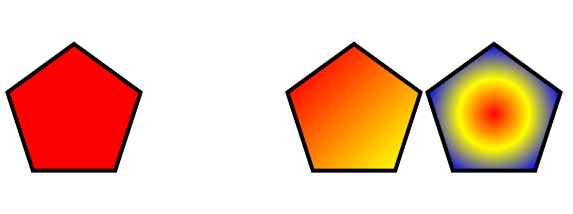
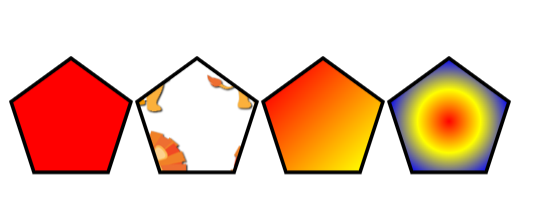
2

Changed region(s): [[0.0, 0.1748, 0.9927, 0.8738], [0.031, 0.6408, 0.2172, 0.8738], [0.3102, 0.3204, 0.3412, 0.3786]]

diff --git a/src/index.js b/src/index.js
@@ -1,8 +1,12 @@
 import React from "react";
 import ReactDOM from "react-dom/client";
 import { Stage, Layer, RegularPolygon } from "react-konva";
+import useImage from 'use-image';
 
+const url = 'https://konvajs.org/assets/lion.png';
 const App = () => {
+  const [image] = useImage(url);
+
   return (
     <Stage width={window.innerWidth} height={window.innerHeight}>
       <Layer>
@@ -16,18 +20,18 @@ const App = () => {
           strokeWidth={4}
           draggable
         />
-        {/*TODO how to use image for fillPatternImage*/}
-        {/*<RegularPolygon*/}
-        {/*  x={220}*/}
-        {/*  y={200}*/}
-        {/*  sides={5}*/}
-        {/*  radius={70}*/}
-        {/*  fillPatternImage={images.darthVader}*/}
-        {/*  fillPatternOffset={((x = -220), (y = 70))}*/}
-        {/*  stroke={"black"}*/}
-        {/*  strokeWidth={4}*/}
-        {/*  draggable*/}
-        {/*/>*/}
+        {/*TODO how to use image for  fillPatternOffset*/}
+        <RegularPolygon
+          x={220}
+          y={200}
+          sides={5}
+          radius={70}
+          fillPatternImage={image}
+          // fillPatternOffset({(x= 20 ),y= 10});
+          stroke={"black"}
+          strokeWidth={4}
+          draggable
+        />
         {/*linearGradPentagon*/}
         <RegularPolygon
           x={360}
